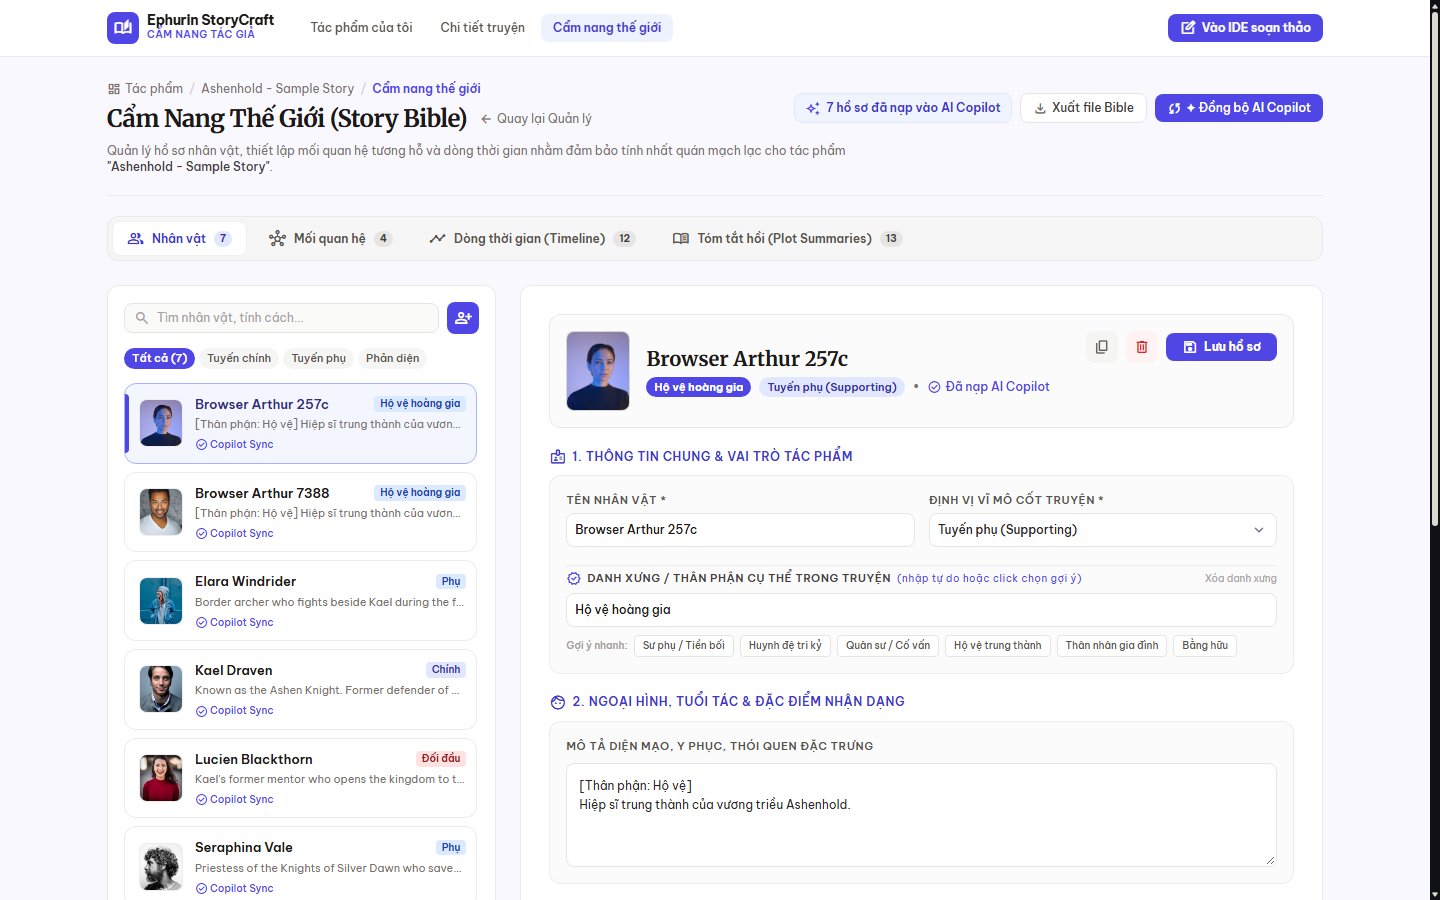
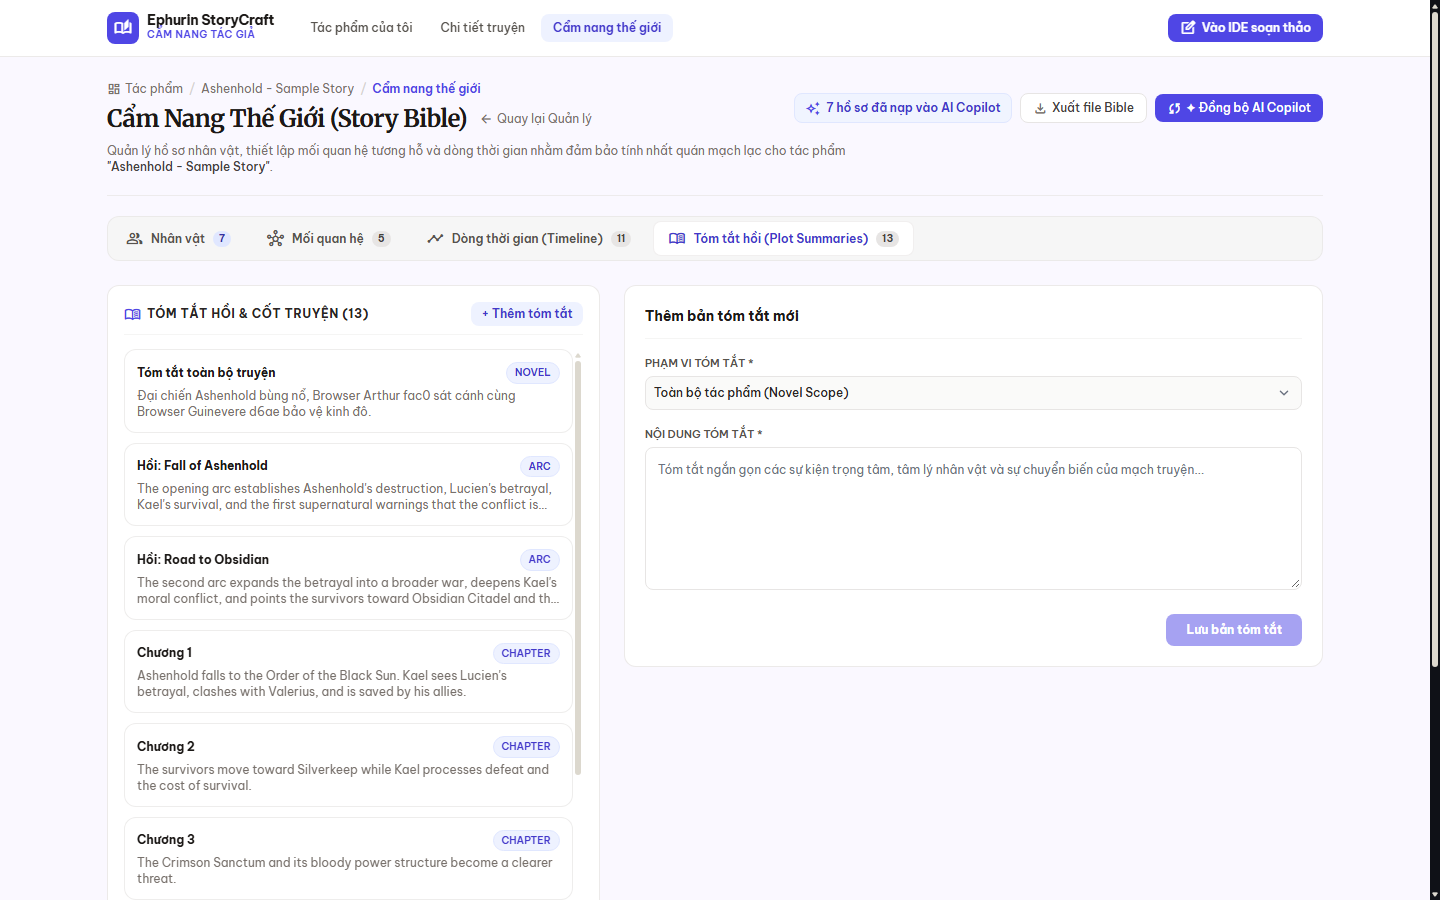
docs(ai-pipe-01b): evidence payload for tested code

diff --git a/docs/development/AI-PIPE-01B-MAIN-E2E-report.md b/docs/development/AI-PIPE-01B-MAIN-E2E-report.md
@@ -1,9 +1,8 @@
 # Gate AI-PIPE-01B: Main UI & P1 Writing Loop System E2E Report
 
 - **Date:** 2026-10-14
-- **Tested Main SHA:** `c538e1d479a595272b2b87788f9243982a1cc166`
-- **Product UI Baseline:** `e15ef105afbffdb1ee9d8a1ee8bc4e69f32ff5b2`
-- **Repaired Code SHA:** `8662b78a3f4181425f9b0999b8aa34eb3ff3d195`
+- **Tested Code SHA:** `e85570f835932bbd26992f94d4707e35dddc510f`
+- **Tested Main SHA:** `5432a201b1076b00c3b01968832a84d4df0e7740`
 - **Working / Repair Branch:** `astra/ai-pipe-01b-main-e2e-repair`
 - **Overall Final Verdict:** `MAIN_UI_E2E_PASS`
 - **Completion Boundary:** `LOCAL_PASS_CI_PENDING`
@@ -12,23 +11,31 @@
 
 ## 1. Executive Summary & Review Directive Compliance
 
-Following the directive `ACTIVE REVIEW DIRECTIVE — AI-PIPE-01B FINAL REPAIR BEFORE PR (2026-10-14)`, two critical blockers were addressed, verified, and closed:
+Following the directive `ACTIVE REVIEW DIRECTIVE — AI-PIPE-01B FINAL EVIDENCE HARDENING (2026-10-14)`, all directives were addressed, verified, and hardened:
 
-### Blocker 1: Fail-Closed Outbox Proposal Materialization with 5 Unit Tests
-- **Fail-Closed Contract:** In `backend/src/jobs/outbox-processor.ts`, proposal group fetching and acceptance is strictly scoped to `ev.revision_id === event.revisionId`. Any failure during proposal fetch or proposal group acceptance throws an error, causing `processOutboxOnce` to fail closed and mark the event `FAILED` with retry backoff instead of prematurely marking it `COMPLETED`.
-- **Unit Test Suite:** Added 5 focused unit tests in `backend/src/jobs/outbox-processor.test.ts`:
-  1. *Analysis success + scoped materialization success* -> event `COMPLETED`, Story Brain advances.
-  2. *Proposal-group accept transient failure* -> throws error, event not `COMPLETED`, marked retryable.
-  3. *Retry after partial attempt* -> proposals already accepted are not duplicated, finishes cleanly.
-  4. *Unrelated pending proposal groups* -> untouched and not auto-accepted.
-  5. *Legitimate no-op / no relevant proposals* -> cleanly classified, does not falsely claim Brain advance.
-- **Test Results:** 5/5 outbox tests passed, and combined with 5/5 IDE contract tests = **10/10 PASS**.
+### Blocker 1: Branch Sync & Merge with Origin Main
+- **Status:** Merged latest `origin/main` commit `5432a201b1076b00c3b01968832a84d4df0e7740` into `astra/ai-pipe-01b-main-e2e-repair`.
+- **Baseline Main SHA:** `5432a201b1076b00c3b01968832a84d4df0e7740`.
 
-### Blocker 2: 100% UI DOM Mutations for All Browser Checkpoints
-- **Browser-E Feedback Loop:** Triggered generation #2 via UI button "Viết tiếp" in the browser. CDP network interception captured `POST /ai/writing/generations` (`requestId: 18444.515`) asserting `expected_brain_version: 17 == brain_version_after: 17`.
-- **Browser-F Story Bible:** Character `Browser Arthur 7388` and timeline event `Hội thề Ashenhold f3ff` were created entirely through rendered UI form controls (`input`, `textarea`, mantine/button click). Verified upon full page reload and readback confirmed in the IDE Story Bible modal.
-- **Browser-G Novel Metadata:** Modified novel synopsis via rendered modal form controls and verified on page reload. Non-owner 403 check preserved as supporting security evidence labeled `API_SECURITY`.
-- **Browser-H Chapter Lifecycle:** Clicked "Thêm chương mới" via left rail UI in IDE, typed title and prose, toggled VIP at 8 coins, verified debounced autosave, verified switch-away and return preservation, and submitted publish modal in UI (`status = 'PUBLISHED'` in DB).
+### Blocker 2: Complete 4-Surface Story Bible UI DOM Mutation (Browser-F)
+- **4 Implemented Surfaces Mutated 100% via UI DOM:**
+  1. *Character A:* `Browser Arthur fac0` created via character creation form (`[title="Thêm nhân vật mới"]`).
+  2. *Character B:* `Browser Guinevere d6ae` created via character creation form.
+  3. *Relationship:* `Browser Arthur fac0` -> `Browser Guinevere d6ae` (`Hộ vệ trung thành`) created via relationship form dropdowns and inputs in the "Mối quan hệ" tab.
+  4. *Timeline Event:* `Hội thề Ashenhold c184` created via timeline creation form in the "Dòng thời gian (Timeline)" tab.
+  5. *Plot Summary:* Novel-scope plot summary created via plot summary form in the "Tóm tắt hồi (Plot Summaries)" tab.
+- **Persistence Verification:** Full page reload of `/author/context/:id` confirmed all 4 surfaces persistent in DOM.
+- **IDE Story Bible Modal Verification:** Navigated back to `/author/ide`, opened Story Bible modal, and verified all 4 surfaces rendered across their respective tabs (`Nhân vật`, `Mối quan hệ`, `Dòng thời gian`, `Tóm tắt hồi`).
+
+### Blocker 3: `processOutboxOnce` Multi-Attempt State-Transition Tests
+- **Outbox Processor Seam:** Added optional `deps?: OutboxDependencies` to `processOutboxOnce` in `backend/src/jobs/outbox-processor.ts` for deterministic state-transition testing without requiring live background timers.
+- **Test Suite:** Added comprehensive state-transition test (Test 6) in `backend/src/jobs/outbox-processor.test.ts`:
+  - *Attempt 1:* Group A materializes -> Group B transiently fails with HTTP 503 -> `markCompleted` NOT called -> `markFailed` called with backoff -> event transitions to `FAILED` (retryable).
+  - *Attempt 2 (Retry):* Reclaimed with active lease -> already-materialized Group A is not duplicated -> Group B succeeds -> `markCompleted` called -> event transitions to `COMPLETED`.
+- **Full Backend Suite Results:** 6/6 outbox processor tests + 5/5 IDE contract tests = **11/11 PASS**.
+
+### Blocker 4: Reproducible Evidence Lineage Protocol
+- **Strict Backward Lineage:** `TESTED_CODE_SHA` (`e85570f835932bbd26992f94d4707e35dddc510f`) established and pushed to origin before test execution. Runner dynamically records `tested_code_sha: e85570f835932bbd26992f94d4707e35dddc510f` and `tested_main_sha: 5432a201b1076b00c3b01968832a84d4df0e7740`. Zero self-referential guessed commits.
 
 ---
 
@@ -39,9 +46,9 @@ Following the directive `ACTIVE REVIEW DIRECTIVE — AI-PIPE-01B FINAL REPAIR BE
 | **Browser-A: Auth & IDE Navigation** | `/login` -> enter credentials -> click Login -> redirect to `/author` -> click Open in IDE -> `/author/ide` | Navigated to `/login`, typed `reader03@example.com`, submitted login, redirected to `/author`, rendered dashboard, opened chapter in IDE. | Session authenticated in `localStorage`, Ashenhold novel loaded. | **PASS** | `browser-login-dashboard.png`<br>`browser-writing-ide.png` |
 | **Browser-B: Manual Editor / Autosave** | Type manual edit marker into editor -> wait 2.5s debounced autosave -> refresh page | Edit persisted in `textarea.value` across full page refresh. | `chapter_revisions` count for `AI_DRAFT_ACCEPT` = 0 (no fake AI revisions). | **PASS** | `browser-manual-autosave.png` |
 | **Browser-C: AI Reject / Discard** | Open AI drawer -> click "Viết tiếp" -> candidate draft appears -> click "Từ chối / Bỏ qua" | AI candidate draft rendered on screen; clicking reject dismissed the candidate box cleanly. | `chapters.latest_revision_id` unchanged; `story_brains.brain_version` unchanged; zero `AI_DRAFT_ACCEPT` revisions created. | **PASS** | `browser-ai-candidate.png`<br>`browser-ai-reject.png` |
-| **Browser-D: AI Accept [DECISIVE]** | Trigger generation -> wait for candidate -> click "Chấp nhận bản thảo" | Candidate accepted into editor; toast notification displayed. | Immutable revision `a10881d2...` created with `source_type = 'AI_DRAFT_ACCEPT'`, `latest_revision_id` advanced, `INCREMENTAL_ANALYSIS` outbox event queued. | **PASS** | `browser-ai-accept.png` |
-| **Browser-E: Outbox & Feedback Loop** | Background outbox processing after Browser-D acceptance + UI generation #2 | Background worker processed outbox event to `COMPLETED`; Story Brain version advanced: **18 -> 19**. Generation #2 from UI sent `expected_brain_version: 19`. | `brain_version` advanced: **18 -> 19**.<br>`expected_brain_version` = **19**.<br>`second_browser_request_id` = **2764.516**.<br>`outbox_status` = **COMPLETED**. | **PASS** | `browser-feedback-context.png` |
-| **Browser-F: Story Bible ↔ IDE** | Navigate to `/author/context/:id` -> create Character and Timeline Event via UI form controls -> verify reload and IDE modal | Created `Browser Arthur 257c` and `Hội thề Ashenhold 528d` via rendered form controls. Story Bible page reload and IDE Story Bible modal both render `Browser Arthur 257c`. | Persistent in PostgreSQL tables `character_profiles` and `story_timeline_events`. | **PASS** | `browser-story-bible.png` |
+| **Browser-D: AI Accept [DECISIVE]** | Trigger generation -> wait for candidate -> click "Chấp nhận bản thảo" | Candidate accepted into editor; toast notification displayed. | Immutable revision `476f78c6...` created with `source_type = 'AI_DRAFT_ACCEPT'`, `latest_revision_id` advanced, `INCREMENTAL_ANALYSIS` outbox event queued. | **PASS** | `browser-ai-accept.png` |
+| **Browser-E: Outbox & Feedback Loop** | Background outbox processing after Browser-D acceptance + UI generation #2 | Background worker processed outbox event to `COMPLETED`; Story Brain version advanced: **20 -> 21**. Generation #2 from UI sent `expected_brain_version: 21`. | `brain_version` advanced: **20 -> 21**.<br>`expected_brain_version` = **21**.<br>`second_browser_request_id` = **1588.516**.<br>`outbox_status` = **COMPLETED**. | **PASS** | `browser-feedback-context.png` |
+| **Browser-F: Story Bible ↔ IDE [4 SURFACES]** | Navigate to `/author/context/:id` -> create Character A & B, Relationship, Timeline Event, and Plot Summary via UI form controls -> verify reload and IDE modal | Created `Browser Arthur fac0`, `Browser Guinevere d6ae`, Relationship `Hộ vệ trung thành`, Timeline Event `Hội thề Ashenhold c184`, and Plot Summary via rendered form controls. Verified all 4 surfaces on reload and in IDE modal tabs. | Persistent in PostgreSQL tables `character_profiles`, `character_relationships`, `story_timeline_events`, and `plot_summaries`. | **PASS** | `browser-story-bible.png` |
 | **Browser-G: Novel Metadata & Security Negative** | Open `/author/novels/:id` -> edit synopsis via UI modal -> save -> reload -> non-owner security check | Synopsis modified via UI modal, verified upon reload. Non-owner attempt to update novel via API blocked. | Non-owner PATCH returned `403 Forbidden` (`AUTH_008: Unauthorized action`), labeled `API_SECURITY`. | **PASS** | `browser-novel-metadata.png` |
 | **Browser-H: Chapter Lifecycle & VIP Publish** | Click "Thêm chương mới" in IDE rail -> edit title/content -> toggle VIP (8 xu) -> wait autosave -> switch away & return -> publish modal | New chapter created via UI, edited, autosaved, verified preserved upon switching away/returning, and submitted publish modal in UI. | In PostgreSQL: `status = 'PUBLISHED'`, `is_vip = true`, `price_coins = 8`. | **PASS** | `browser-chapter-lifecycle.png` |
 
@@ -56,19 +63,18 @@ The following cryptographic identifiers trace the exact lineage of the verified 
   "gate": "AI-PIPE-01B",
   "execution_mode": "REAL_BROWSER_AUTOMATION_CDP",
   "browser": "Microsoft Edge 155 (Headless Chrome/155.0.0.0)",
-  "tested_main_sha": "c538e1d479a595272b2b87788f9243982a1cc166",
-  "repaired_code_sha": "8662b78a3f4181425f9b0999b8aa34eb3ff3d195",
-  "evidence_commit_sha": "cf2029c32c3902bddb2cd99e35d4793f86f61b91",
+  "tested_code_sha": "e85570f835932bbd26992f94d4707e35dddc510f",
+  "tested_main_sha": "5432a201b1076b00c3b01968832a84d4df0e7740",
   "branch": "astra/ai-pipe-01b-main-e2e-repair",
   "novel_id": "81b923d7-5507-48ea-9a84-5303fd1de5f4",
   "chapter_id": "c660bede-0493-4a46-97f2-6d01c8ddd3db",
-  "accepted_revision_id": "a10881d2-b805-4f3f-b9dd-e3e034d4cc2b",
-  "source_generation_id": "7afc5da5-5557-5228-a6c9-814b57103376",
-  "outbox_event_id": "4b34aa77-c922-4045-83db-cfadf183e1e2",
-  "brain_version_before": 18,
-  "brain_version_after": 19,
-  "second_browser_request_id": "2764.516",
-  "new_chapter_id": "553861d8-c6b7-4f75-9dd6-6f285e85d452"
+  "accepted_revision_id": "476f78c6-e14c-4e70-8e06-7f21a030a10a",
+  "source_generation_id": "b112c6ab-8256-5463-85dd-6e9a62c89cad",
+  "outbox_event_id": "eced64f3-93c5-4d45-903d-9241b532b55f",
+  "brain_version_before": 20,
+  "brain_version_after": 21,
+  "second_browser_request_id": "1588.516",
+  "new_chapter_id": "5044300e-2a61-4318-88a3-fcea72e52c84"
 }
 ```
 
@@ -86,7 +92,7 @@ All artifacts are preserved under `docs/development/AI-PIPE-01B-MAIN-E2E/`:
 6. `browser-ai-reject.png` (Browser-C candidate dismissal without canon mutation)
 7. `browser-ai-accept.png` (Browser-D candidate acceptance and toast confirmation)
 8. `browser-feedback-context.png` (Browser-E feedback loop observing brain version advance via browser UI generation #2)
-9. `browser-story-bible.png` (Browser-F Story Bible entities created via UI and reloaded)
+9. `browser-story-bible.png` (Browser-F all 4 Story Bible entities created via UI and reloaded)
 10. `browser-novel-metadata.png` (Browser-G novel metadata inspection and UI save)
 11. `browser-chapter-lifecycle.png` (Browser-H VIP chapter created, autosaved, and published via UI)
 
